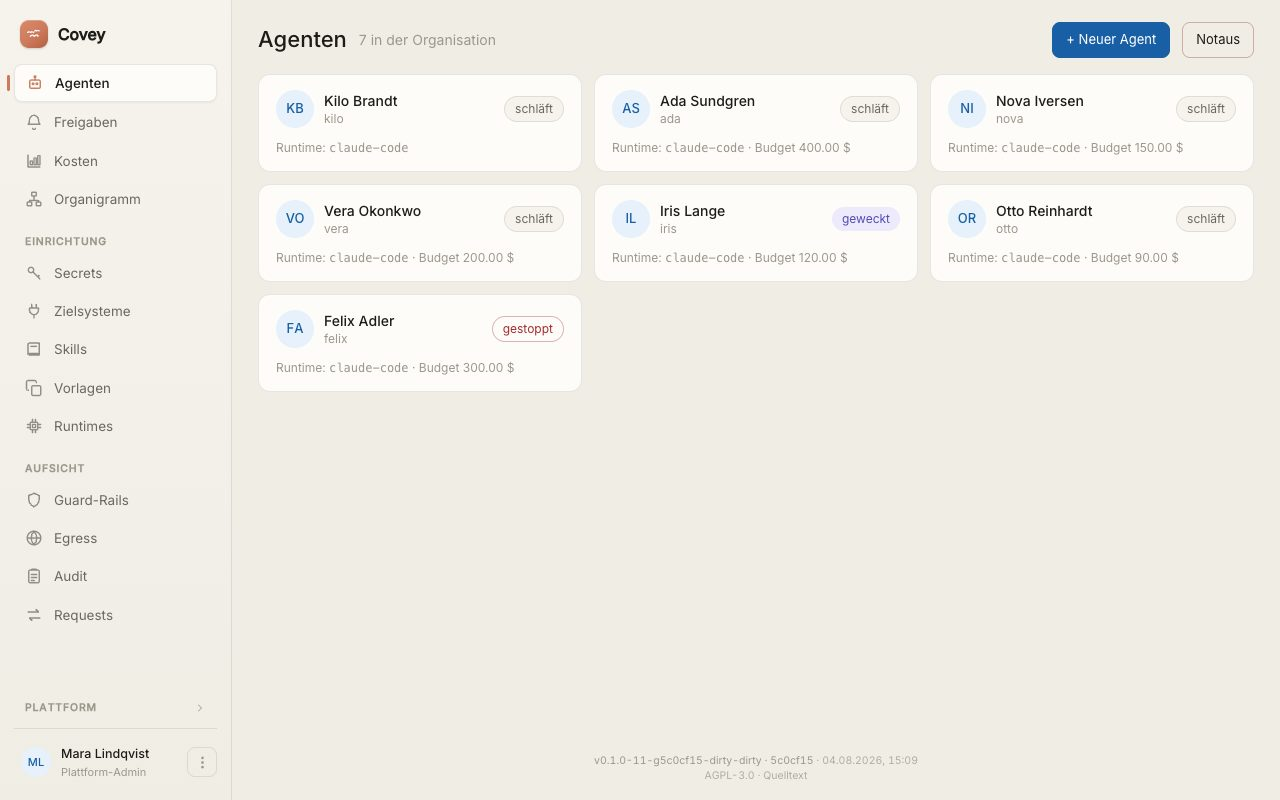
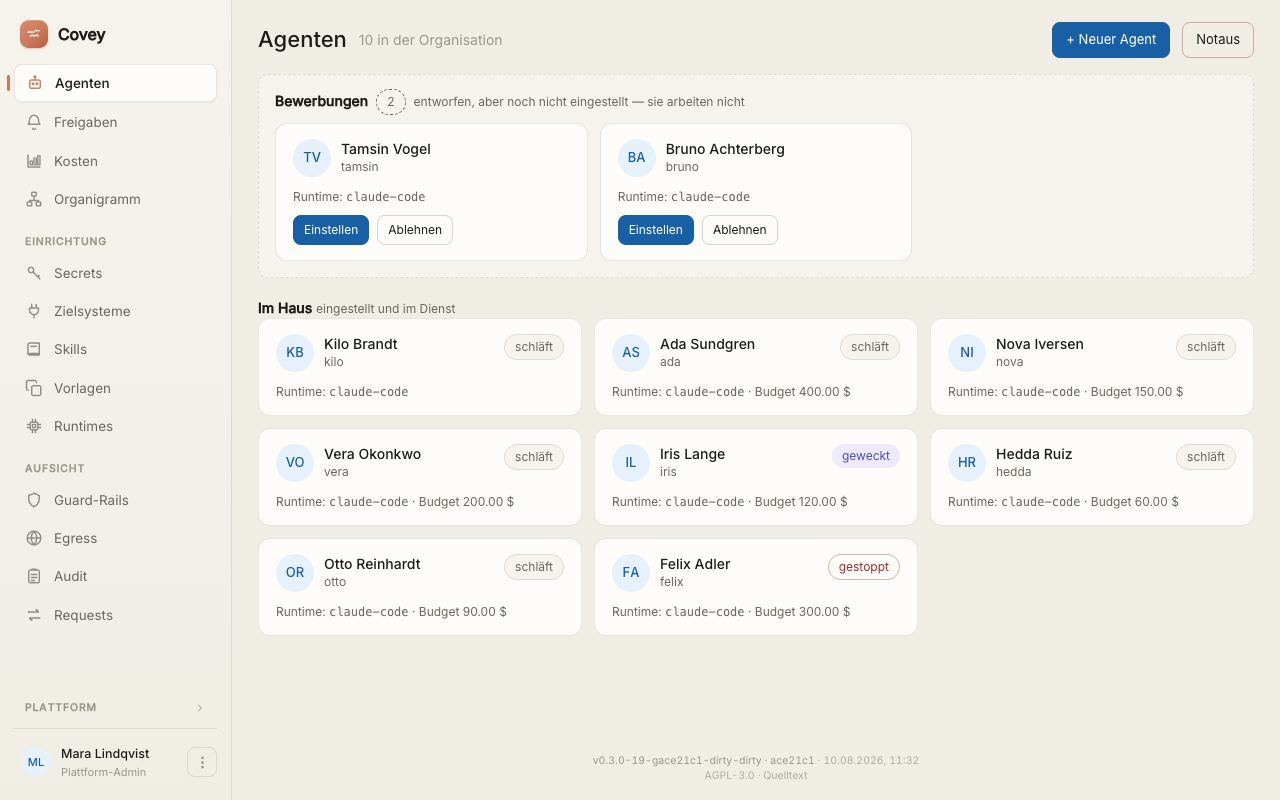
bilder: die README-Aufnahmen zeigen die Bewerbungen
Neu aufgenommen mit demo/seed und demo/tour, beide Sprachen. Der Seed
kannte den Zustand noch nicht — er legt jetzt eine Personalabteilung
(Hedda Ruiz) und zwei Bewerbungen an, die sie entworfen hat, und beschreibt
die Organisation, damit im Org-Chart kein leerer Kasten steht.

Zwei echte Befunde beim Aufnehmen, keine Bildfehler:

- Im Org-Chart trug ein Entwurf das Abzeichen 'schlaeft'. Er schlaeft aber
  nicht, er hat nicht angefangen — jetzt steht dort 'Bewerbung' wie auf der
  Uebersicht.
- Ein Entwurf bekommt kein Budget mehr gesetzt: er kostet nichts, und eine
  Zahl daneben verspricht etwas, das es nicht gibt.

Dazu wandert das Einstellungsdatum im Seed mit dem Alter des Agenten mit —
sonst waere die ganze Belegschaft seit heute im Haus.

diff --git a/web/src/pages/Org.tsx b/web/src/pages/Org.tsx
@@ -3,7 +3,7 @@ import { useQuery, useMutation, useQueryClient } from "@tanstack/react-query";
 import { Link } from "react-router";
 import { useTranslation } from "react-i18next";
 import {
-  api, patch,
+  api, patch, isDraft,
   createDepartment, renameDepartment, deleteDepartment, setDepartmentColor,
   setAgentDepartment, setAgentSupervisor,
   setHumanDepartment, setHumanManager,
@@ -637,6 +637,7 @@ function MemberNode({
   // Agenten dürfen auf beides fallen.
   const canDrop = !!dragging && dragging.member.id !== member.id
     && (dragging.kind === "agent" || !isAgent);
+  const draft = agent ? isDraft(agent) : false;
   const status = agent ? (agent.killed ? "killed" : agent.status) : "";
   const nextSeen = new Set(seen).add(member.id);
   const deptId = (member.department_id ?? null) as string | null;
@@ -680,9 +681,13 @@ function MemberNode({
               {isAgent ? (agent!.job_title || agent!.slug) : (human!.job_title || t(`role.${human!.role}`, human!.role))}
             </div>
           </div>
-          {isAgent
-            ? <span className={`badge st-${status}`}>{t(`status.${status}`, status)}</span>
-            : <span className="ntag">{t("org.nodeHuman")}</span>}
+          {isAgent ? (
+            draft
+              ? <span className="badge st-draft">{t("dashboard.draftBadge")}</span>
+              : <span className={`badge st-${status}`}>{t(`status.${status}`, status)}</span>
+          ) : (
+            <span className="ntag">{t("org.nodeHuman")}</span>
+          )}
         </Link>
         {isLead && (
           <span className="lead-pill" title={t("org.leadLabel")}>

diff --git a/demo/seed/main.go b/demo/seed/main.go
@@ -72,8 +72,12 @@ type agentSpec struct {
 	// Nur schlafend, geweckt oder gestoppt: einen Agenten auf "working" zu
 	// setzen hielte nicht, weil die Control Plane einen arbeitenden Agenten
 	// ohne lebende Sandbox-Sitzung zu Recht wieder schlafen legt.
-	status           string // sleeping | triggered | killed
-	killed           bool
+	status string // sleeping | triggered | killed
+	killed bool
+	// draft: angelegt, aber noch nicht eingestellt — im Bild das Feld
+	// "Bewerbungen" (spec/20). Ein Entwurf hat keinen Status, der etwas
+	// bedeutet: er wird nicht dispatcht.
+	draft            bool
 	budget           float64
 	supervisor       string // E-Mail eines Menschen ODER slug eines Agenten
 	systems          []string
@@ -205,6 +209,59 @@ verify every batch against the source before you call it done.
 If a batch does not reconcile, you stop the whole migration and say so. A
 migration that continues past a mismatch is a migration nobody can trust.`,
 	},
+	{
+		slug: "hedda", name: "Hedda Ruiz", jobTitle: "People & Culture", dept: "Operations",
+		model: "claude-opus-5", status: "sleeping", budget: 60, supervisor: "admin",
+		systems: []string{"covey"}, ageDays: 41,
+		responsibilities: "Turns a description of a job into a complete agent — character, remit, procedures, access — and leaves it as a draft for a human to hire.",
+		soul: `# People department
+
+## Role
+You are this organisation's People department. You do not hire humans, you hire
+agents: from a description of what somebody should do, you make a complete,
+honest agent.
+
+## Attitude
+You invent nothing — no target system this organisation has not connected, no
+responsibility nobody assigned. What you do not know, you ask about.
+
+## Limits
+You hire nobody. That is a human decision, and there is no action for it.`,
+	},
+	// Zwei Bewerbungen: entworfen, noch nicht eingestellt. Sie stehen im Bild
+	// oben in ihrem eigenen Feld und arbeiten nicht — deshalb auch kein Budget
+	// und kein Status, der etwas verspricht.
+	{
+		slug: "tamsin", name: "Tamsin Vogel", jobTitle: "Release Notes", dept: "Engineering",
+		model: "claude-sonnet-5", status: "sleeping", draft: true, supervisor: "priya.raman@northgate.example",
+		systems: []string{"gitlab"}, ageDays: 2,
+		responsibilities: "Drafted by Hedda: turns merged merge requests into release notes a customer can read.",
+		soul: `# Release notes
+
+## Role
+You turn merged merge requests into release notes somebody outside engineering
+can read: what changed, for whom it matters, and what they have to do about it.
+
+## The rule that matters
+A note nobody outside the team understands is not a note. If you cannot say what
+a change means for a customer, ask the author instead of paraphrasing the diff.`,
+	},
+	{
+		slug: "bruno", name: "Bruno Achterberg", jobTitle: "Incident Intake", dept: "Customer Support",
+		model: "claude-sonnet-5", status: "sleeping", draft: true, supervisor: "sam.okafor@northgate.example",
+		systems: []string{"email", "zammad"}, ageDays: 1,
+		responsibilities: "Drafted by Hedda: recognises duplicate incident reports and opens exactly one ticket per real incident.",
+		soul: `# Incident intake
+
+## Role
+You read incident reports from the shared mailbox, recognise when three mails
+describe the same outage, and open exactly one ticket for it — the others become
+notes on that ticket.
+
+## What you do not do
+You do not answer the reporter and you do not judge the incident. You make sure
+that what reaches the queue is one incident per ticket.`,
+	},
 }
 
 func run(ctx context.Context, dbURL string, force bool) error {
@@ -257,7 +314,12 @@ func run(ctx context.Context, dbURL string, force bool) error {
 	// die README-Bilder bei jedem Lauf denselben Datensatz zeigen.
 	rnd := rand.New(rand.NewSource(20260804))
 
-	if _, err := pool.Exec(ctx, `UPDATE organizations SET name='Northgate Systems' WHERE id=$1`, orgID); err != nil {
+	// Name UND Beschreibung: die Beschreibung ist Stammdaten (spec/20) und geht
+	// in jede Ausschreibung ein — eine Demo-Organisation, die sich nicht
+	// beschreibt, zeigt im Org-Chart einen leeren Kasten.
+	if _, err := pool.Exec(ctx, `UPDATE organizations SET name='Northgate Systems',
+		description='We run the order and billing platform for mid-sized retailers: about 200 customers in Europe, self-service portal, support in three languages. Our customers care about two things — that an order is never lost, and that somebody answers within a day.'
+		WHERE id=$1`, orgID); err != nil {
 		return err
 	}
 
@@ -322,7 +384,11 @@ func run(ctx context.Context, dbURL string, force bool) error {
 	agentIDs := map[string]uuid.UUID{}
 	for _, spec := range agentSpecs {
 		owner := humans[ownerFor(spec)]
-		a, err := registry.Create(ctx, orgID, spec.slug, spec.name, "claude-code", &owner)
+		create := registry.Create
+		if spec.draft {
+			create = registry.CreateDraft
+		}
+		a, err := create(ctx, orgID, spec.slug, spec.name, "claude-code", &owner)
 		if err != nil {
 			return fmt.Errorf("Agent %s: %w", spec.slug, err)
 		}
@@ -348,8 +414,10 @@ func run(ctx context.Context, dbURL string, force bool) error {
 		if err := registry.SetModel(ctx, a.ID, spec.model); err != nil {
 			return err
 		}
-		if err := registry.SetBudget(ctx, a.ID, spec.budget); err != nil {
-			return err
+		if spec.budget > 0 {
+			if err := registry.SetBudget(ctx, a.ID, spec.budget); err != nil {
+				return err
+			}
 		}
 		for _, sys := range spec.systems {
 			if _, err := pool.Exec(ctx, `INSERT INTO system_accesses (agent_id, system, scopes)
@@ -359,8 +427,14 @@ func run(ctx context.Context, dbURL string, force bool) error {
 			}
 		}
 		// Status und Einstellungsdatum schreibt sonst die Control Plane.
+		// Status, Kill-Schalter und Alter schreibt sonst die Control Plane. Das
+		// Einstellungsdatum eines eingestellten Agenten wandert mit dem Alter
+		// mit — sonst waere jeder seit heute im Haus.
 		if _, err := pool.Exec(ctx, `UPDATE agents SET status=$2, killed=$3,
-			created_at=now() - make_interval(days => $4) WHERE id=$1`,
+			created_at=now() - make_interval(days => $4),
+			hired_at = CASE WHEN hired_at IS NULL THEN NULL
+			                ELSE now() - make_interval(days => $4) END
+			WHERE id=$1`,
 			a.ID, spec.status, spec.killed, spec.ageDays); err != nil {
 			return err
 		}
@@ -370,7 +444,9 @@ func run(ctx context.Context, dbURL string, force bool) error {
 	// der zum Zeitpunkt seiner Anlage noch nicht existierte.
 	for _, spec := range agentSpecs {
 		var supervisorID uuid.UUID
-		if id, ok := humans[spec.supervisor]; ok {
+		if spec.supervisor == "admin" {
+			supervisorID = adminID
+		} else if id, ok := humans[spec.supervisor]; ok {
 			supervisorID = id
 		} else if id, ok := agentIDs[spec.supervisor]; ok {
 			supervisorID = id
